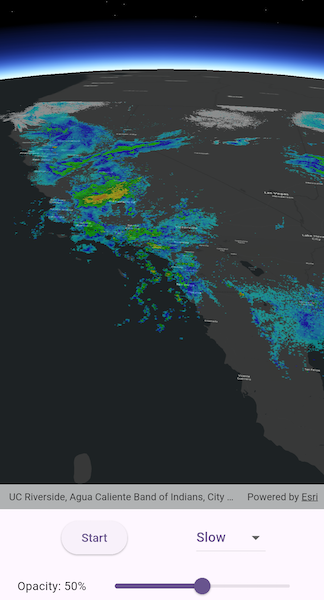
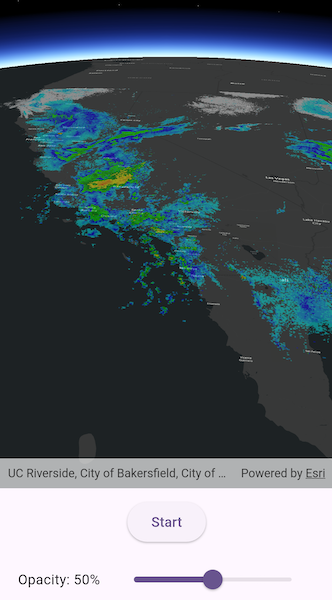
cs/Update caching the ArcGIS images (#330)
* Switch using image array

* preread image files.

* optimize the application.

* update the comments.

* remove the speed control

diff --git a/lib/samples/animate_images_with_image_overlay/animate_images_with_image_overlay.dart b/lib/samples/animate_images_with_image_overlay/animate_images_with_image_overlay.dart
@@ -37,20 +37,16 @@ class _AnimateImagesWithImageOverlayState
   final _sceneViewController = ArcGISSceneView.createController();
   // A flag to toggle the start/stop of the image animation.
   var _started = false;
-  // Define the animated speeds available in the dropdown button.
-  final _animatedSpeeds = ['Fast', 'Medium', 'Slow'];
-  // The initial selected animated speed.
-  var _selectedAnimatedSpeed = 'Slow';
   // The speed of the image frame animation in milliseconds.
-  var _imageFrameSpeed = 0;
+  final _imageFrameSpeed = 68;
   // The last frame time in milliseconds to control the animation speed.
   var _lastFrameTime = 0;
   // The initial opacity of the image overlay.
   var _opacity = 0.5;
   // Create an ImageOverlay to display the animated images.
   final _imageOverlay = ImageOverlay();
-  // A list to hold the image URIs for the animation.
-  List<Uri> _imageUriList = [];
+  // A list to hold the ArcGIS image files for the animation.
+  List<File> _imageFileList = [];
   // A string to display the download progress.
   var _downloadProgress = '';
   // An integer to track the current ArcGIS image index.
@@ -71,16 +67,10 @@ class _AnimateImagesWithImageOverlayState
   );
 
   @override
-  void initState() {
-    _imageFrameSpeed = getAnimatedSpeed(_selectedAnimatedSpeed);
-    super.initState();
-  }
-
-  @override
   void dispose() {
     _ticker?.dispose();
     _ticker = null;
-    _imageUriList.clear();
+    _imageFileList.clear();
     super.dispose();
   }
 
@@ -119,29 +109,6 @@ class _AnimateImagesWithImageOverlayState
                           ? const Text('Stop')
                           : const Text('Start'),
                     ),
-                    // A dropdown button to select the animated speed.
-                    DropdownButton<String>(
-                      value: _selectedAnimatedSpeed,
-                      onChanged: (value) {
-                        if (value != null) {
-                          setState(() {
-                            _selectedAnimatedSpeed = value;
-                            _imageFrameSpeed = getAnimatedSpeed(value);
-                          });
-                        }
-                      },
-                      items: _animatedSpeeds.map((String speed) {
-                        return DropdownMenuItem<String>(
-                          value: speed,
-                          child: Text(
-                            speed,
-                            style: TextStyle(
-                              color: Theme.of(context).primaryColor,
-                            ),
-                          ),
-                        );
-                      }).toList(),
-                    ),
                   ],
                 ),
                 // A Slider to control opacity of the image overlay.
@@ -179,22 +146,13 @@ class _AnimateImagesWithImageOverlayState
     );
   }
 
-  int getAnimatedSpeed(String selectedSpeed) {
-    // Returns the speed of the animation based on the selected speed.
-    // Usually a frame changes every 16 milliseconds.
-    return switch (selectedSpeed) {
-      'Fast' => 17,
-      'Medium' => 34,
-      'Slow' => 68,
-      _ => 68,
-    };
-  }
-
+  // Stop the image animation ticker.
   void stopTicker() {
     _ticker?.stop();
     setState(() => _started = false);
   }
 
+  // Start the image animation ticker.
   void startTicker() {
     _lastFrameTime = 0;
     // create a ticker to control the image frame animation.
@@ -207,7 +165,7 @@ class _AnimateImagesWithImageOverlayState
   void _onTicker(Duration elapsed) {
     final delta = elapsed.inMilliseconds - _lastFrameTime;
     if (delta >= _imageFrameSpeed) {
-      _imageFrameIndex = (_imageFrameIndex + 1) % _imageUriList.length;
+      _imageFrameIndex = (_imageFrameIndex + 1) % _imageFileList.length;
       setImageFrame(_imageFrameIndex);
       _lastFrameTime = elapsed.inMilliseconds;
     }
@@ -274,28 +232,24 @@ class _AnimateImagesWithImageOverlayState
       );
     }
     // Get a list of all PNG image files in the extracted directory.
-    final imageFileList = directory
+    _imageFileList = directory
         .listSync()
         .whereType<File>()
         .where((file) => file.path.endsWith('.png'))
         .toList();
     // Sort the list by file path name.
-    imageFileList.sort((file1, file2) => file1.path.compareTo(file2.path));
-
-    // Generate the Uris from the image files.
-    _imageUriList = imageFileList.map((file) {
-      return file.uri;
-    }).toList();
-
+    _imageFileList.sort((file1, file2) => file1.path.compareTo(file2.path));
+    
     // show the first image frame in the image overlay.
     setImageFrame(0);
   }
 
   /// Sets the image frame to the image overlay based on the index.
   void setImageFrame(int index) {
-    final image = ArcGISImage.fromFile(_imageUriList[index]);
+    // Quickly release the previous image frame to avoid memory issues.
+    _imageOverlay.imageFrame = null;
     _imageOverlay.imageFrame = ImageFrame.withImageEnvelope(
-      image: image!,
+      image: ArcGISImage.fromFile(_imageFileList[index].uri)!,
       extent: imageEnvelope,
     );
   }

diff --git a/lib/samples/animate_images_with_image_overlay/README.md b/lib/samples/animate_images_with_image_overlay/README.md
@@ -10,14 +10,14 @@ An image overlay is useful for displaying fast and dynamic images; for example, 
 
 ## How to use the sample
 
-The application loads a map of the Southwestern United States. Tap the "Start" or "Stop" buttons to start or stop the radar animation. Use the drop down menu to select how quickly the animation plays. Move the slider to change the opacity of the image overlay.
+The application loads a map of the Southwestern United States. Tap the "Start" or "Stop" buttons to start or stop the radar animation. Move the slider to change the opacity of the image overlay.
 
 ## How it works
 
 1. Create an `ImageOverlay` and add it to the `ArcGISSceneViewController`.
-2. Set up a timer with an initial interval time of 68ms, which will display approximately 15 `ImageFrame`s per second.
+2. Set up a ticker with the interval time of 68ms, which will display approximately 15 `ImageFrame`s per second.
 3. When `Start` is clicked, start the timer.
-4. The timer updates the `ImageFrame` of the `ImageOverlay` at the given time interval.
+4. The ticker updates the `ImageFrame` of the `ImageOverlay` at the given time interval.
 
 ## Relevant API
 
